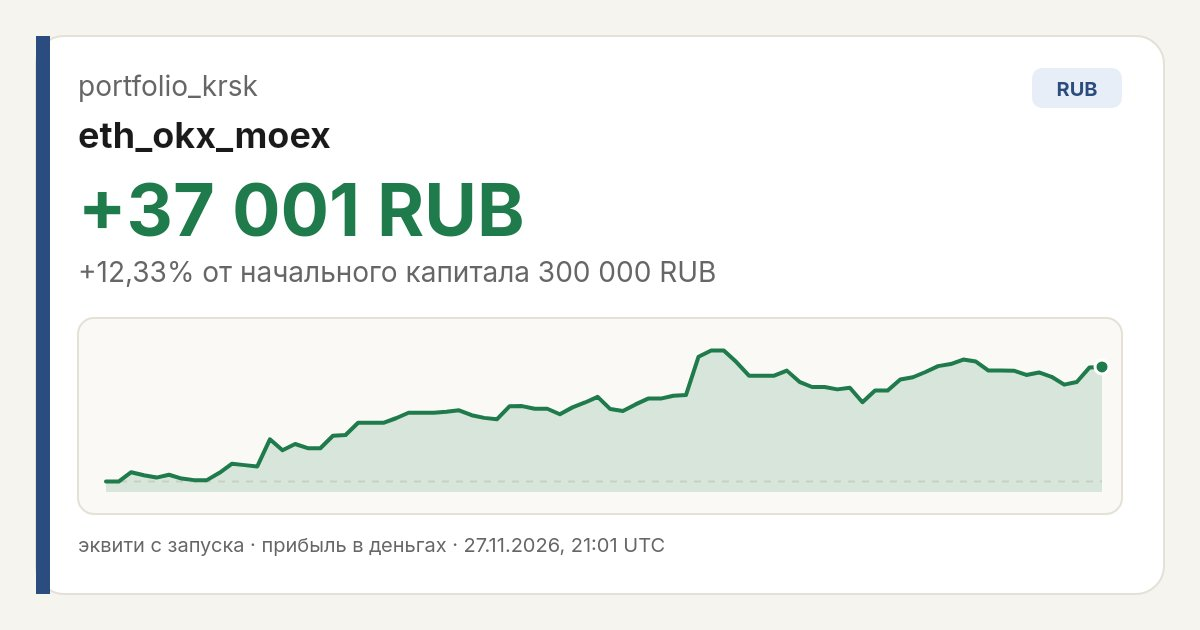
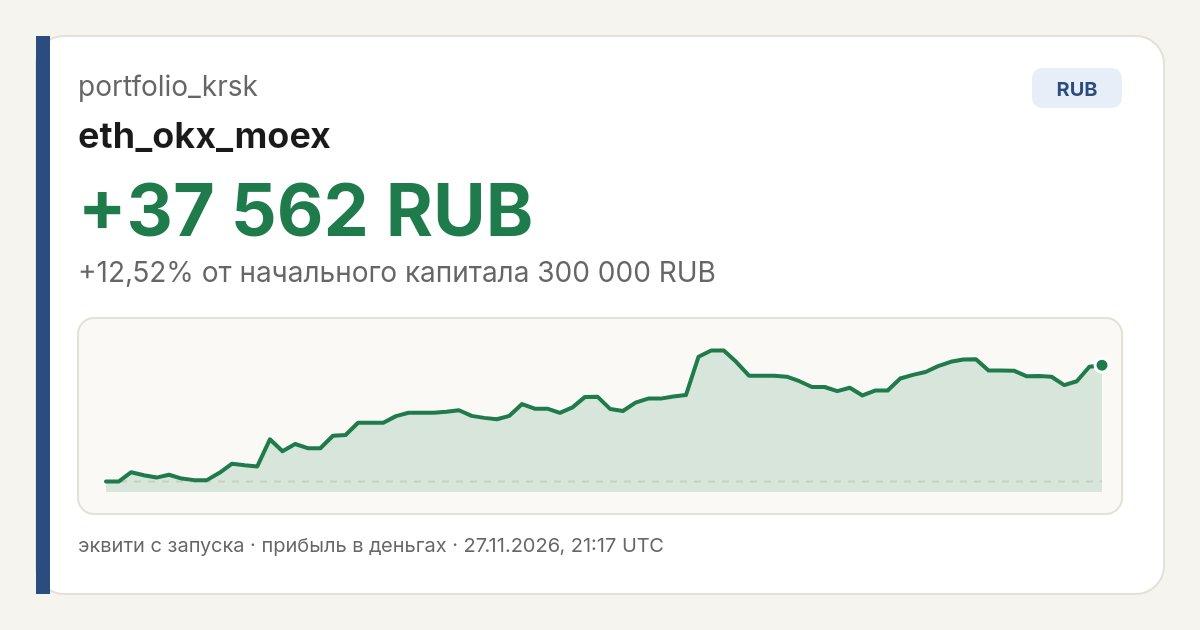
sync equity data 2026-11-27T21:17:30Z

diff --git a/share.html b/share.html
@@ -4,23 +4,23 @@
     <meta charset="UTF-8" />
     <meta name="viewport" content="width=device-width, initial-scale=1.0" />
     <title>portfolio_krsk - eth_okx_moex</title>
-    <meta name="description" content="eth_okx_moex: +37 001 RUB (+12,33%) с запуска. Лидер обложки выбран по доходности в процентах от начального капитала; суммы в разных валютах не сравниваются." />
+    <meta name="description" content="eth_okx_moex: +37 562 RUB (+12,52%) с запуска. Лидер обложки выбран по доходности в процентах от начального капитала; суммы в разных валютах не сравниваются." />
     <meta property="og:title" content="portfolio_krsk - eth_okx_moex" />
-    <meta property="og:description" content="eth_okx_moex: +37 001 RUB (+12,33%) с запуска. Лидер обложки выбран по доходности в процентах от начального капитала; суммы в разных валютах не сравниваются." />
+    <meta property="og:description" content="eth_okx_moex: +37 562 RUB (+12,52%) с запуска. Лидер обложки выбран по доходности в процентах от начального капитала; суммы в разных валютах не сравниваются." />
     <meta property="og:url" content="https://portfolio-krsk.vercel.app/" />
     <meta property="og:site_name" content="portfolio_krsk" />
     <meta property="og:locale" content="ru_RU" />
     <meta property="og:type" content="website" />
-    <meta property="og:image" content="https://varshavskiy1-beep.github.io/portfolio-krsk/og-cover.jpg?v=202611272101" />
-    <meta property="og:image:secure_url" content="https://varshavskiy1-beep.github.io/portfolio-krsk/og-cover.jpg?v=202611272101" />
+    <meta property="og:image" content="https://varshavskiy1-beep.github.io/portfolio-krsk/og-cover.jpg?v=202611272117" />
+    <meta property="og:image:secure_url" content="https://varshavskiy1-beep.github.io/portfolio-krsk/og-cover.jpg?v=202611272117" />
     <meta property="og:image:type" content="image/jpeg" />
     <meta property="og:image:width" content="1200" />
     <meta property="og:image:height" content="630" />
-    <link rel="image_src" href="https://varshavskiy1-beep.github.io/portfolio-krsk/og-cover.jpg?v=202611272101" />
+    <link rel="image_src" href="https://varshavskiy1-beep.github.io/portfolio-krsk/og-cover.jpg?v=202611272117" />
     <meta name="twitter:card" content="summary_large_image" />
     <meta name="twitter:title" content="portfolio_krsk - eth_okx_moex" />
-    <meta name="twitter:description" content="eth_okx_moex: +37 001 RUB (+12,33%) с запуска. Лидер обложки выбран по доходности в процентах от начального капитала; суммы в разных валютах не сравниваются." />
-    <meta name="twitter:image" content="https://varshavskiy1-beep.github.io/portfolio-krsk/og-cover.jpg?v=202611272101" />
+    <meta name="twitter:description" content="eth_okx_moex: +37 562 RUB (+12,52%) с запуска. Лидер обложки выбран по доходности в процентах от начального капитала; суммы в разных валютах не сравниваются." />
+    <meta name="twitter:image" content="https://varshavskiy1-beep.github.io/portfolio-krsk/og-cover.jpg?v=202611272117" />
     <meta http-equiv="refresh" content="0; url=/" />
     <script>location.replace("/")</script>
     <style>
@@ -49,9 +49,9 @@
   </head>
   <body>
     <main>
-      <img src="https://varshavskiy1-beep.github.io/portfolio-krsk/og-cover.jpg?v=202611272101" alt="portfolio_krsk - eth_okx_moex" width="1200" height="630" />
+      <img src="https://varshavskiy1-beep.github.io/portfolio-krsk/og-cover.jpg?v=202611272117" alt="portfolio_krsk - eth_okx_moex" width="1200" height="630" />
       <noscript>
-        <p>eth_okx_moex: +37 001 RUB (+12,33%) с запуска. Лидер обложки выбран по доходности в процентах от начального капитала; суммы в разных валютах не сравниваются.</p>
+        <p>eth_okx_moex: +37 562 RUB (+12,52%) с запуска. Лидер обложки выбран по доходности в процентах от начального капитала; суммы в разных валютах не сравниваются.</p>
         <p><a href="/">Открыть кабинет portfolio_krsk</a></p>
       </noscript>
     </main>
